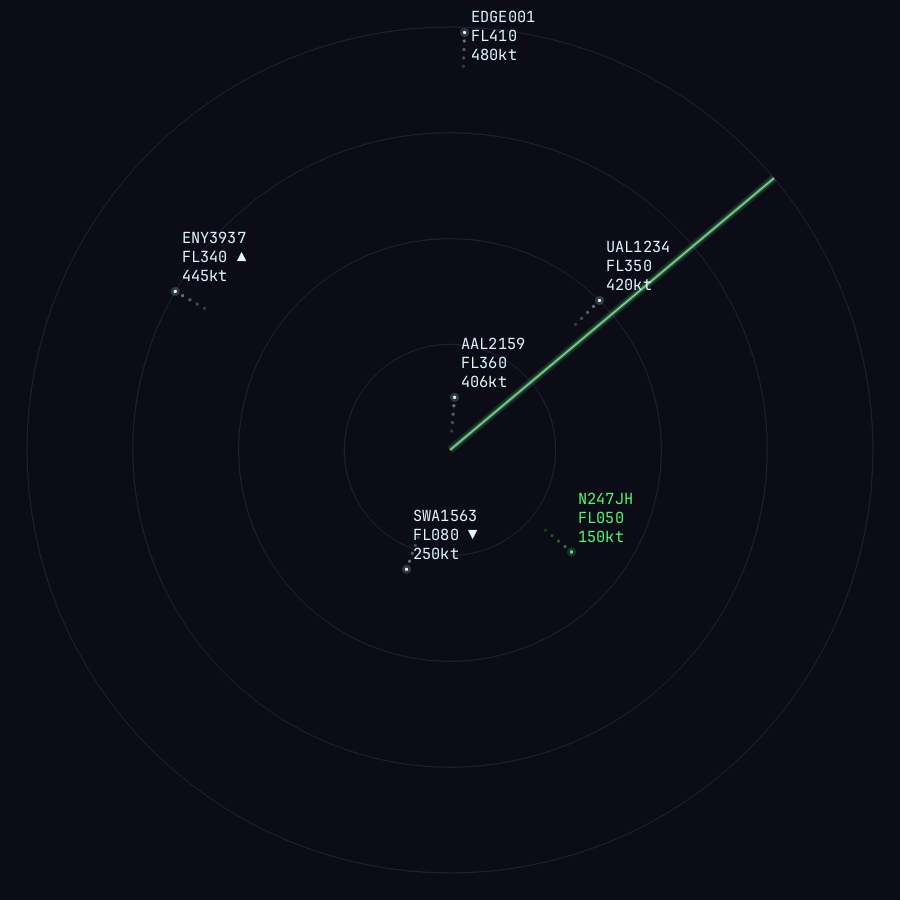
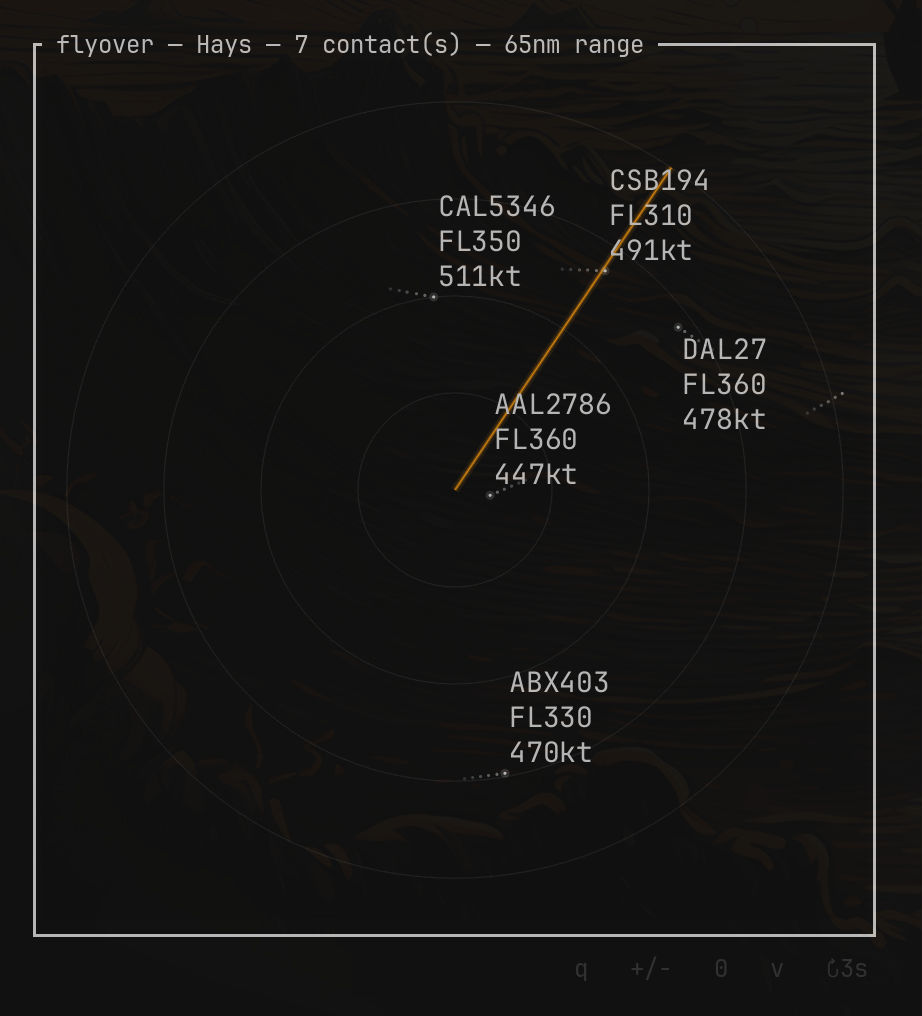
Replace stale synthetic preview with a real screenshot in the README
docs/screenshot.png was still the old flyover --preview synthetic render
from before the label-overlap fixes and current visual conventions.
Swapped in a real, live capture (Sixel mode, actual traffic, actual title
bar/footer chrome). Also fixes a leftover 0.1.0 in the AUR README's
example publish command.

diff --git a/packaging/aur/README.md b/packaging/aur/README.md
@@ -30,6 +30,6 @@ environment against a plain `cargo build --release`, which succeeds fine —
    cp PKGBUILD .SRCINFO flyover/
    cd flyover
    git add PKGBUILD .SRCINFO
-   git commit -m "flyover 0.1.0-1"
+   git commit -m "flyover 0.2.0-2"
    git push
    ```
